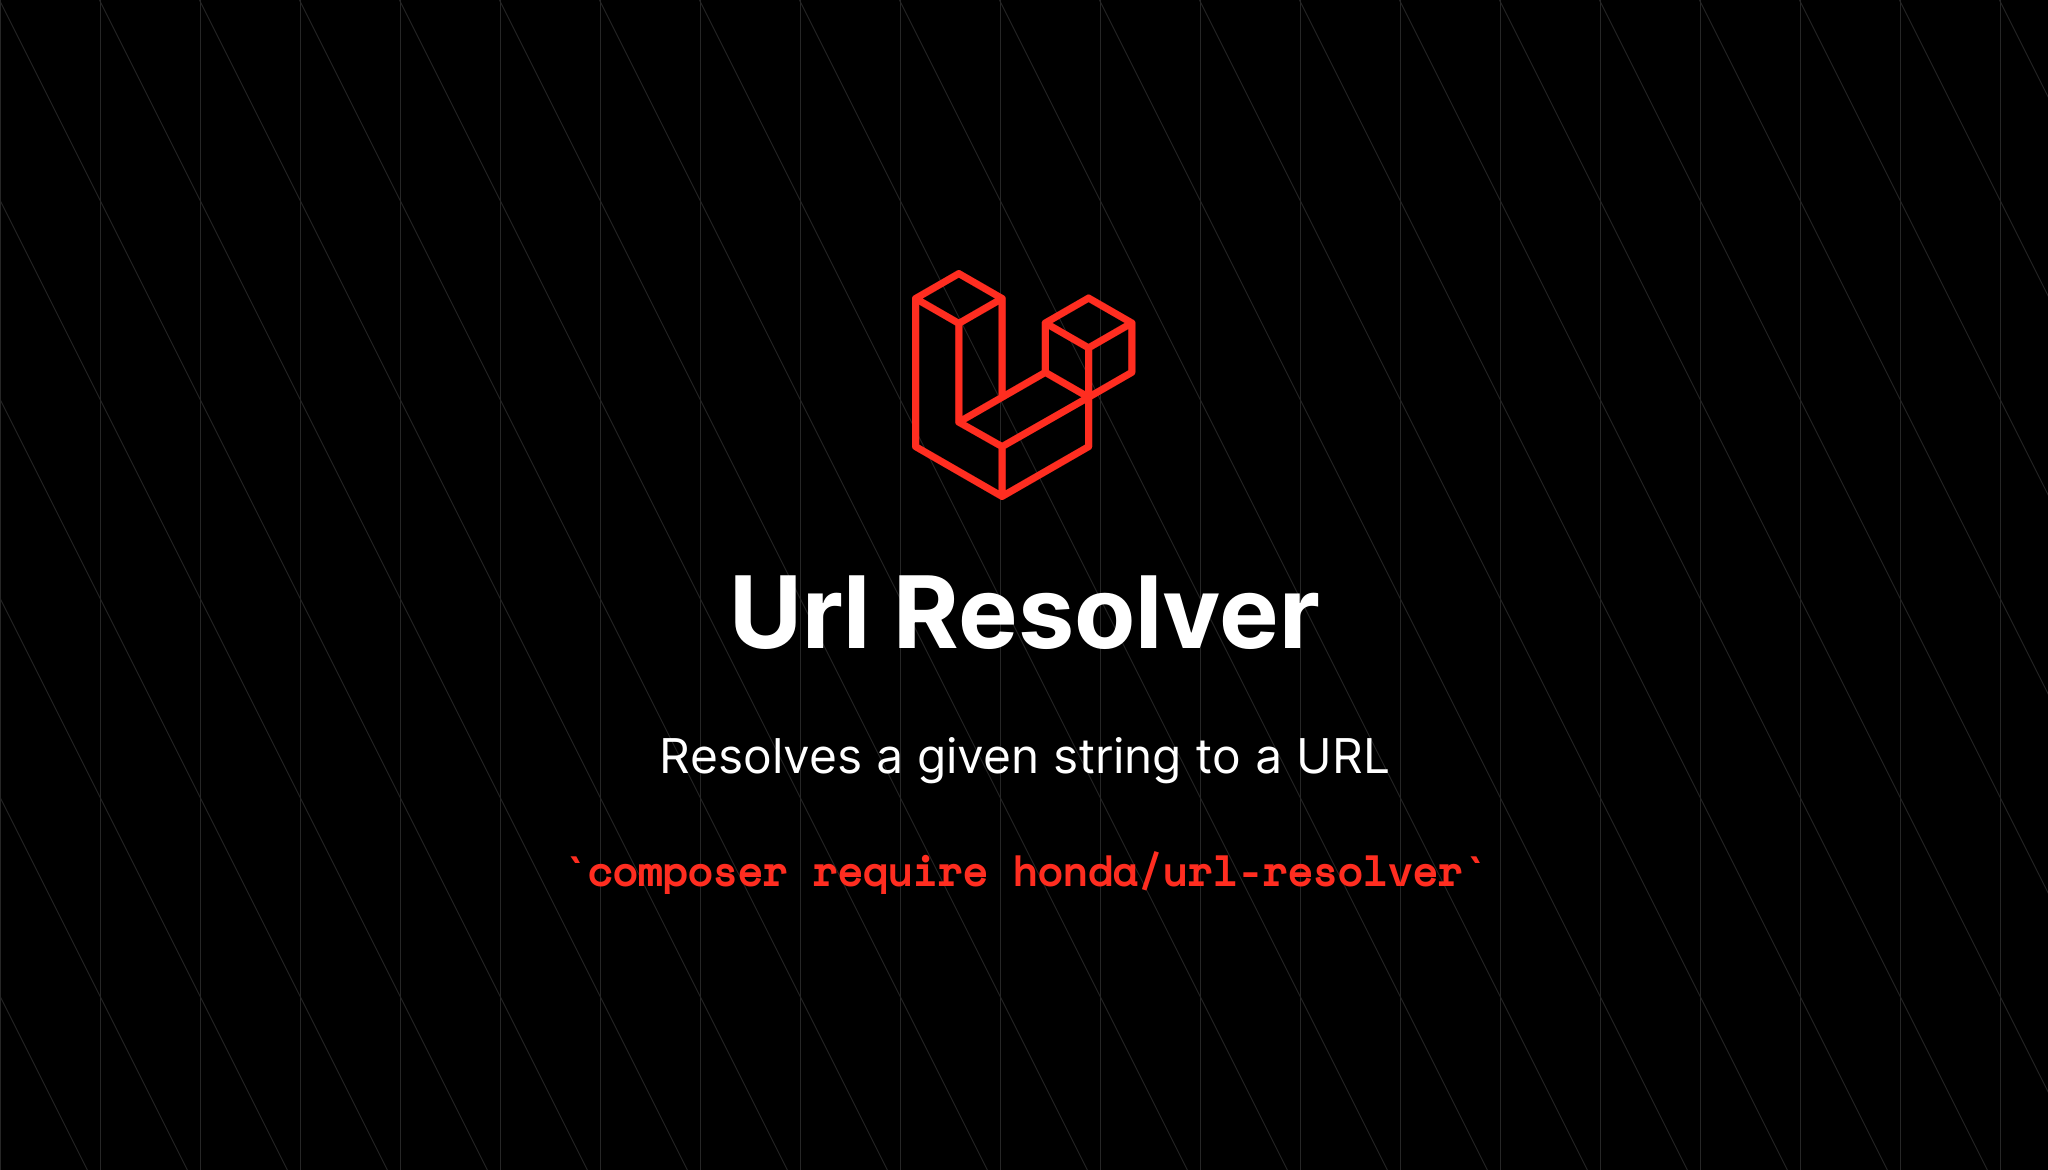
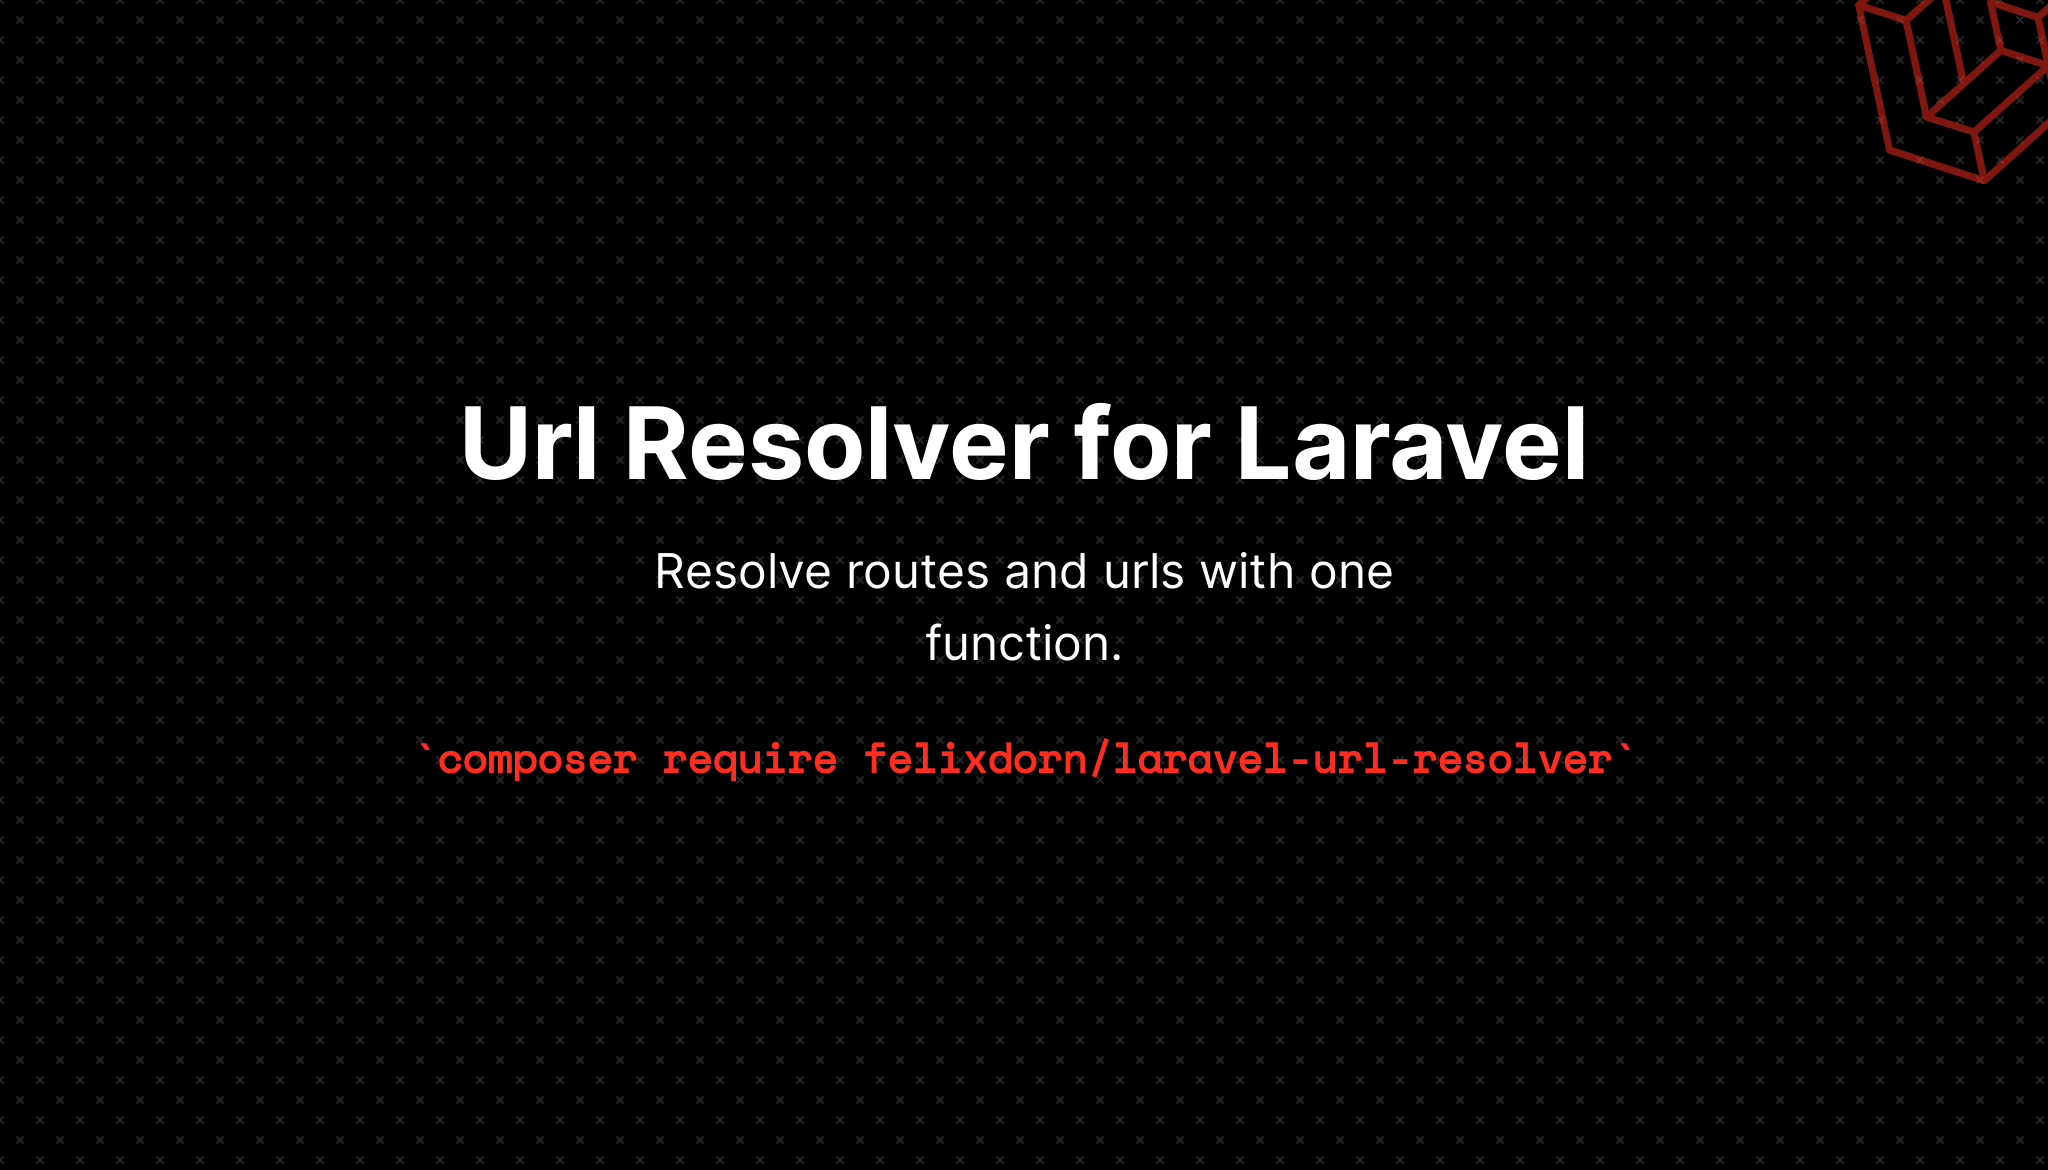
support for L9

diff --git a/src/UrlResolver.php b/src/UrlResolver.php
@@ -6,17 +6,10 @@ use Symfony\Component\Routing\Exception\RouteNotFoundException;
 
 class UrlResolver
 {
-    /**
-     * @param array<string|int, mixed> $context
-     */
-    public static function guess(?string $url = '', array $context = []): string
+    /** @param array<string|int, mixed> $context */
+    public static function guess(string $url = '', array $context = []): string
     {
-        if (is_null($url)) {
-            trigger_error('Passing null to the UrlResolver is deprecated and will be removed in the next major version. Pass an empty string instead.', E_USER_DEPRECATED);
-        }
-
-        // TODO: Next major version change that to just $url === ''
-        if ($url === '' || $url === null) {
+        if ($url === '') {
             /* @phpstan-ignore-next-line */
             return url()->current();
         }

diff --git a/README.md b/README.md
@@ -1,6 +1,8 @@
-[<img src="art/banner.png" width="419px" />](art/banner.png)s
+[<img src="art/banner.png" width="419px" />](art/banner.png)
 
-# Url Resolver
+# Url Resolver for Laravel
+
+Resolve routes and urls with one function.
 
 [![Tests](https://github.com/laravel-honda/url-resolver/actions/workflows/tests.yml/badge.svg?branch=master)](https://github.com/laravel-honda/url-resolver/actions/workflows/tests.yml)
 [![Formats](https://github.com/laravel-honda/url-resolver/actions/workflows/formats.yml/badge.svg?branch=master)](https://github.com/laravel-honda/url-resolver/actions/workflows/formats.yml)
@@ -10,12 +12,12 @@
 
 ## Installation
 
-> Requires [PHP 8.0.0+](https://php.net/releases)
+> Requires [PHP 8.0+](https://php.net/releases)
 
 You can install the package via composer:
 
 ```bash
-composer require honda/url-resolver
+composer require felixdorn/laravel-url-resolver
 ```
 
 ## Usage
@@ -28,7 +30,6 @@ UrlResolver::guess('welcome', []);
 
 * **The route exists:** `route('...', $context)`
 * **The route does not exist:** `url(...')`
-* **The route is null:** `url()`
 * **The "route" is an external URL:** returns it
 
 ## Testing
